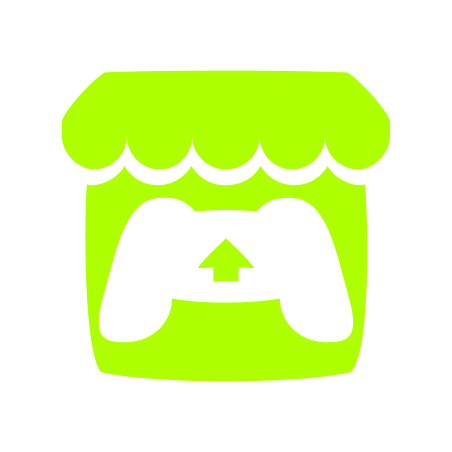
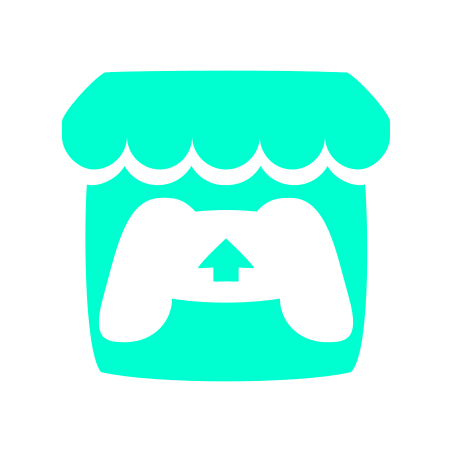
Rebrand to "Hyper!"

Changed region(s): [[0.1239, 0.1549, 0.8673, 0.8673]]

diff --git a/script.js b/script.js
@@ -1,16 +1,20 @@
 var title="About Me";
-var desc="My name's Maciej, but I prefer to be called <b><i>Hyper</i></b><br>\
-Im an 18 year old developer<br>\
+var desc="Hey Im <b>Hyper!</b><br>\
+An 18 year old developer<br>\
 that found the passion of creating games<br>\
 at the age of 14 back in 2017<br><br>\
+\
 I created my first game in GMS following a tutorial<br>\
 trying to change some stuff on the way as I learned.<br>\
 I published my first game on 31st of August 2017<br>\
-called <i>Best Space Shooter 2017</i>(I know, I know..)<br>\
+called <i>Best Space Shooter 2017</i> (lmao I know)<br>\
 then up till December 2019 I pushed through and updated<br>\
-the game adding a lot of new features(and the name changed to SSS77)<br><br>\
+it adding a lot of new features (and the name changed to <i>SSS77</i>)<br><br>\
+\
 From January 2020 I started working in Unity and still am<br>\
-on my biggest project called <a href='https://hypergamesdev.github.io/sss222' target='_blank'><b>SSS222</b></a>";
+on my biggest project called <a href='https://hypergamesdev.github.io/sss222' target='_blank'><b>SSS222</b></a><br><br>\
+Im also the founder of <a href='https://hyperlemonstudios.github.io'>HyperLemonStudios</a>\
+";
 
 var pageName1="About Me";
 var pageName2="Portfolio";
@@ -39,7 +43,7 @@ function checkPage(){
 		if(document.getElementById("sss77Button")!=null)
 			document.getElementById("sss77Button").href="https://github.com/HyperGamesDev/sss77";
 		if(document.getElementById("sss77Date")!=null)
-			document.getElementById("sss77Date").innerHTML="08.2017 - 12.2019";
+			document.getElementById("sss77Date").innerHTML="07.2017 - 12.2019";
 		if(document.getElementById("planetoidButton")!=null)
 			document.getElementById("planetoidButton").href="https://github.com/HyperGamesDev/mc-planetoids";
 		if(document.getElementById("planetoidDate")!=null)
@@ -47,10 +51,10 @@ function checkPage(){
 	}else{
 		if(document.getElementById("allmylinks")!=null)
 			document.getElementById("allmylinks").innerHTML="<img src='img/carrd.png'>";
-			document.getElementById("allmylinks").href="https://hypergamesdev.carrd.co";
+			document.getElementById("allmylinks").href="https://hyperr.carrd.co";
 		}if(document.getElementById("twitter")!=null){
 			document.getElementById("twitter").innerHTML="<img src='img/twitter.png'>";
-			document.getElementById("twitter").href="https://twitter.com/HyperLemonPL";
+			document.getElementById("twitter").href="https://twitter.com/HyperrGamesDev";
 		}if(document.getElementById("github")!=null){
 			document.getElementById("github").innerHTML="<img src='img/github.png'>";
 			document.getElementById("github").href="https://github.com/hypergamesdev";

diff --git a/mainStyle.css b/mainStyle.css
@@ -1,15 +1,16 @@
 html{height:100%;margin:0;}
 body{min-height:100%;
-	background:linear-gradient(to top, rgba(0,0,0,0.5), rgba(0,0,0,0.5)), url("img/hgdBg.png") no-repeat center center fixed;
+	background:linear-gradient(to top, rgba(16,26,70,1), rgba(16,26,70,1))
+	no-repeat center center fixed;
 	font-family:"Open Sans", "Arial";
 	color:white;
 }
-a{text-decoration:none;color:yellow;}
-a:hover{color:red;}
+a{text-decoration:none;color:rgba(26,216,163,1);}
+a:hover{color:rgba(140,255,240,1);}
 @font-face{
     font-family: "TrueLies";
-    src: url("fonts/truelies/true_lies-webfont.woff2") format('woff2'),
-         url("fonts/truelies/true_lies-webfont.woff") format('woff');
+    src: url("fonts/Impact/true_lies-webfont.woff2") format('woff2'),
+         url("fonts/Impact/true_lies-webfont.woff") format('woff');
     font-weight: normal;
     font-style: normal;
 
@@ -21,7 +22,7 @@ button{font-family:"Open Sans", "Arial";cursor:pointer;}
 	width:100%;
 	height:14vw;
 	margin-top:-20px;
-	background-color:rgba(0,0,0,0.5);
+	background-color:rgba(20,26,56,1);
 }.logo{float:left;height:14vw;}
 //.sss222Logo{float:right;height:14vw;width:30vw;margin-left:10%;vertical-align:middle;}
 .content{
@@ -42,11 +43,10 @@ button{font-family:"Open Sans", "Arial";cursor:pointer;}
 	width:120%;
 	height:120%;
 	background-color:rgba(0,0,0,0);
-	//background-image:url("img/button1.png");
 	background-size:100% 100%;
 	border:none;
 	text-align:center;
-	font-family:"TrueLies";
+	font-family:"Impact";
 	color:white;
 	letter-spacing:5px;
 	display:inline-block;
@@ -55,7 +55,7 @@ button{font-family:"Open Sans", "Arial";cursor:pointer;}
     vertical-align: middle;
 }
 a.menuButton:hover{
-	color:red;
+	color:rgba(140,255,240,1);
 }
 span.menuButtonText{
 	top:1vw;
@@ -65,10 +65,10 @@ span.menuButtonText{
 	position:relative;
 }
 .title{
-	font-family: "TrueLies";
+	font-family: "Impact";
 	letter-spacing:5px;
 	font-size:50px;
-	color:yellow;
+	color:rgba(140,255,240,1);
 	margin-top:-35px;
 	margin-bottom:40px;
 }
@@ -121,7 +121,7 @@ span.menuButtonText{
 }
 
 .cv_EN, .cv_PL, a.cv_EN, a.cv_PL{
-	font-family:"TrueLies";
+	font-family:"Impact";
 	letter-spacing:5px;
-	color:#9ec80a;
+	color:#8cfff0;
 }

diff --git a/index.html b/index.html
@@ -1,7 +1,7 @@
 <!DOCTYPE html><html>
 <head>
 <title>HyperGamesDev</title>
-<link rel="icon" href="img/hgdLogo.png">
+<link rel="icon" href="img/HGDawatar.png">
 <link rel="stylesheet" href="mainStyle.css">
 <meta charset="UTF-8">
 <!--<meta name="viewport" content="width=device-width, user-scalable=no, initial-scale=1.0">
@@ -12,7 +12,7 @@
 </head>
 <body>
 <div class="menu">
-	<div class="logo"><img src="img/hgdLogoCut.png"></div>
+	<div class="logo"><img src="img/HGDwatermark.png"></div>
 	<div class="menuButton"><a class="menuButton" id="index"><span class="menuButtonText" id="menuButtonText"><script>docWrite(pageName1);</script></span></a></div>
 	<div class="menuButton"><a class="menuButton" id="portfolio"><span class="menuButtonText" id="menuButtonText"><script>docWrite(pageName2);</script></span></a></div>
 	<!--<div class="sss222Logo"><img src="img/sss222Logo.png"></div>!-->
@@ -37,7 +37,7 @@
 	</div>
 	
 	<br><div class="footer">
-	<footer><p>HyperGamesDev® 2017-2021 | Maciej Krefft</p></footer>
+	<footer><p>HyperGamesDev® / HyperLemonStudios® 2017-2022 | Maciej Krefft</p></footer>
 	</div>
 	
 	<script>checkPage();</script>

diff --git a/portfolio.html b/portfolio.html
@@ -1,7 +1,7 @@
 <!DOCTYPE html><html>
 <head>
 <title>HyperGamesDev</title>
-<link rel="icon" href="img/hgdLogo.png">
+<link rel="icon" href="img/HGDawatar.png">
 <link rel="stylesheet" href="mainStyle.css">
 <link rel="stylesheet" href="portfolioStyle.css">
 <meta charset="UTF-8">
@@ -11,7 +11,7 @@
 </head>
 <body>
 <div class="menu">
-	<div class="logo"><img src="img/hgdLogoCut.png"></div>
+	<div class="logo"><img src="img/HGDwatermark.png"></div>
 	<div class="menuButton"><a class="menuButton" id="index"><span class="menuButtonText" id="menuButtonText"><script>docWrite(pageName1);</script></span></a></div>
 	<div class="menuButton"><a class="menuButton" id="portfolio"><span class="menuButtonText"id="menuButtonText"><script>docWrite(pageName2);</script></span></a></div>
 	<!--<div class="sss222Logo"><img src="img/sss222Logo.png"></div>!-->
@@ -60,7 +60,7 @@
 	</div>
 	
 	<div class="footer">
-	<footer><p>HyperGamesDev® 2017-2021 | Maciej Krefft</p></footer>
+	<footer><p>HyperGamesDev® / HyperLemonStudios® 2017-2022 | Maciej Krefft</p></footer>
 	</div>
 	
 	<script>checkPage();</script>

diff --git a/portfolioStyle.css b/portfolioStyle.css
@@ -21,7 +21,7 @@
 }
 
 .portfolioTitle{
-	font-family: "TrueLies";
+	font-family: "Arial";
 	letter-spacing:5px;
 	font-size:25px;
 	color:green;
